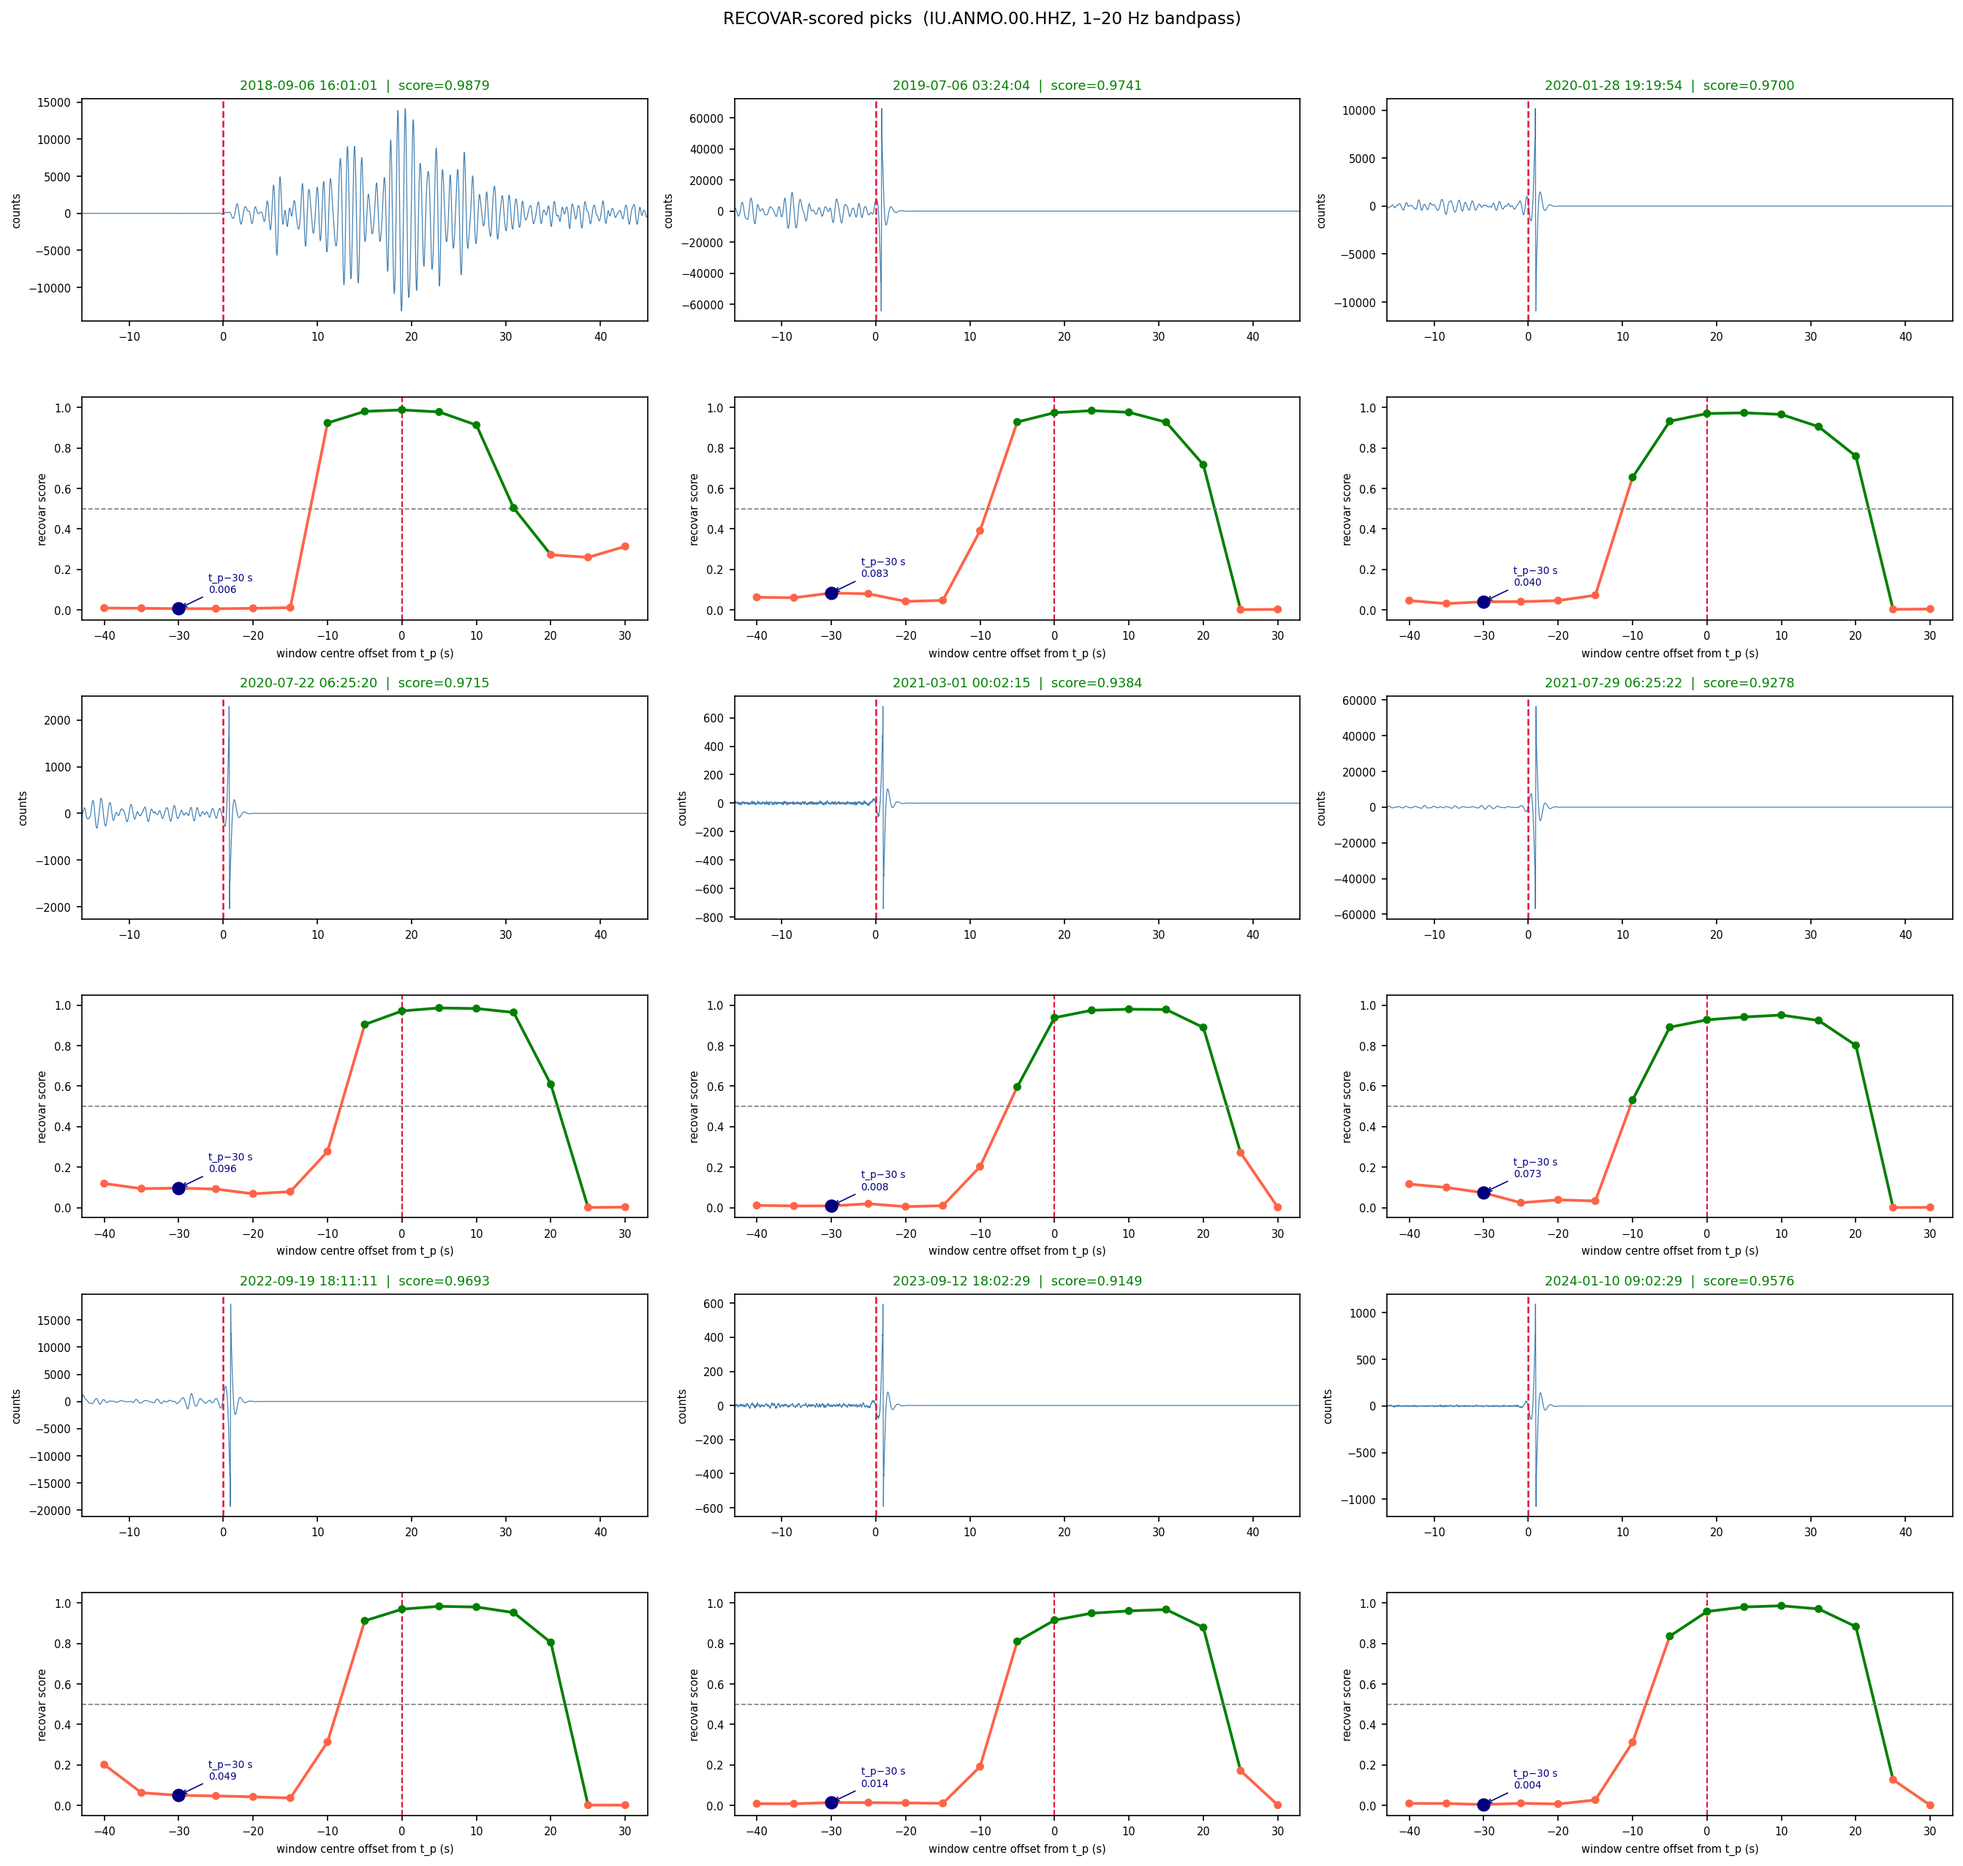
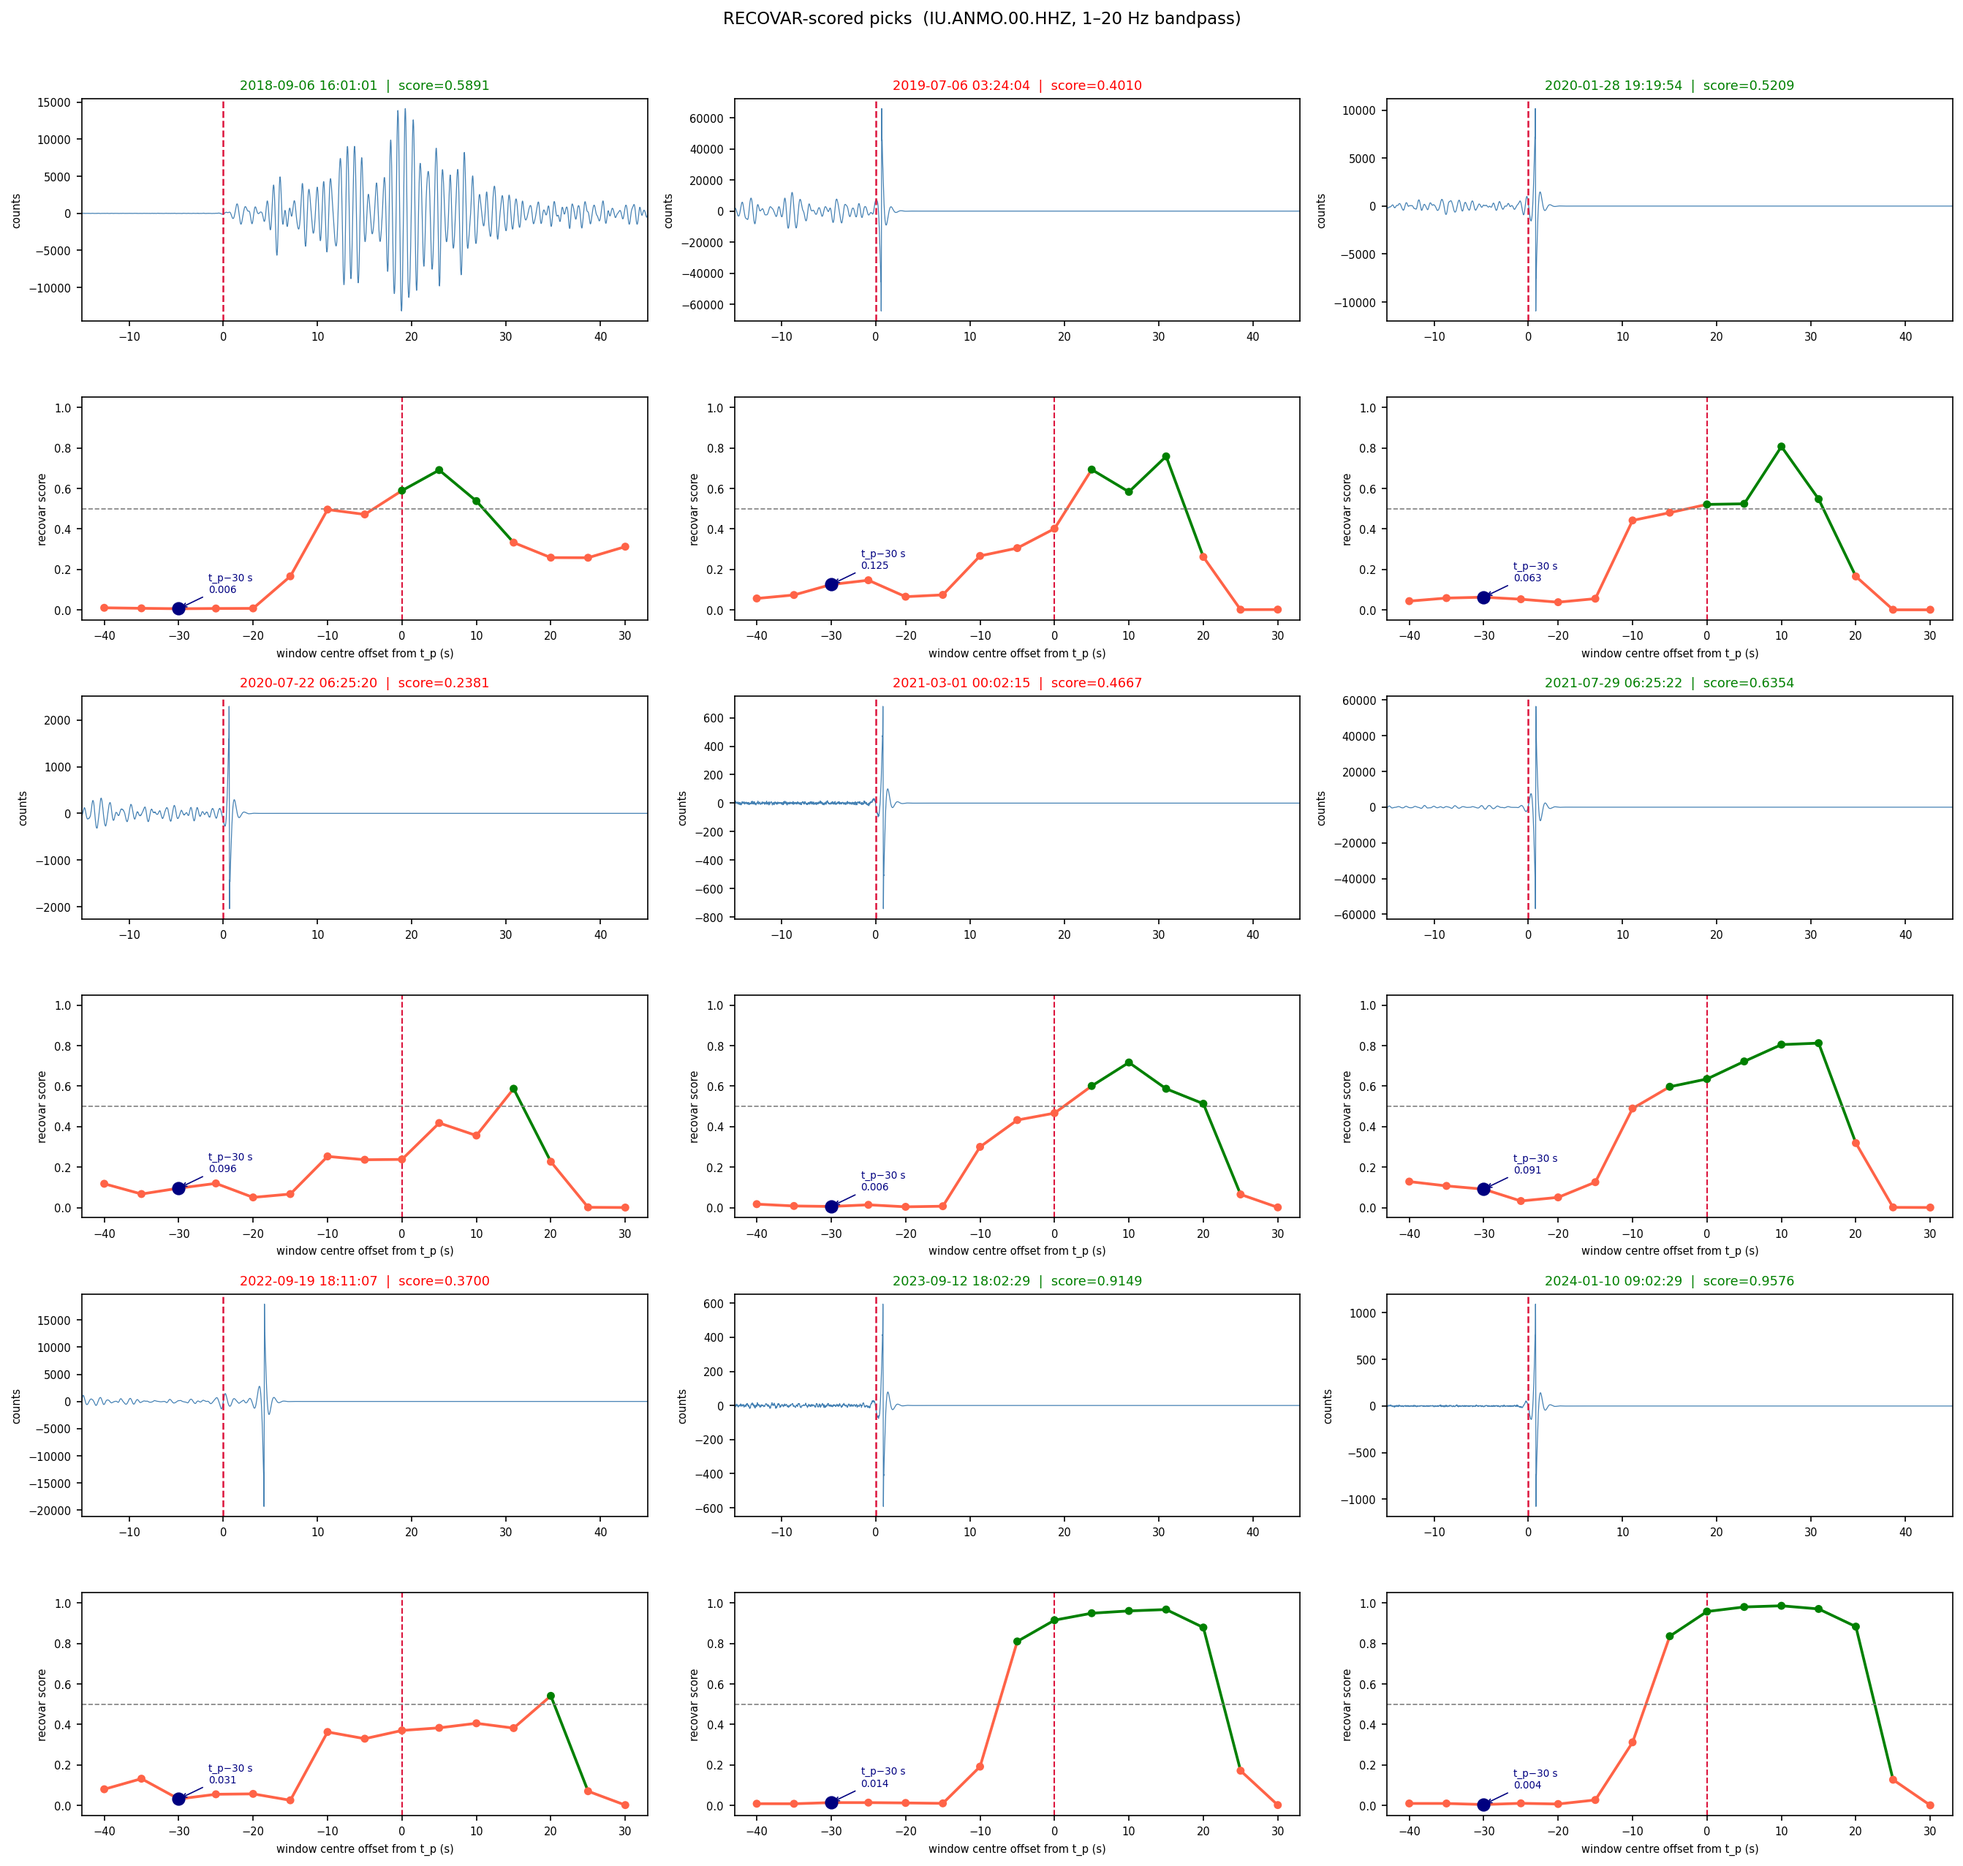
Replace Butterworth bandpass with ideal Fourier-domain mask
_bandpass now zeros all FFT bins outside [1, 20] Hz instead of applying
a Butterworth IIR response. Removes the scipy.signal dependency from the
filtering path. Note: the rectangular mask introduces Gibbs ringing which
may lower model scores compared to the smoother Butterworth response.

diff --git a/seiscomp_integration/recovar_pick_filter.py b/seiscomp_integration/recovar_pick_filter.py
@@ -42,7 +42,6 @@ SWEEP_OFFSETS_S      = list(range(-40, 31, 5))  # −40,−35,…,0,…,+30 (15 
 TARGET_FS   = 100    # Hz required by recovar
 BP_LOW_HZ   = 1.0
 BP_HIGH_HZ  = 20.0
-BP_CORNERS  = 4
 
 COMMENT_KEY       = "recovar_score"
 SWEEP_COMMENT_KEY = "recovar_score_sweep"
@@ -419,13 +418,11 @@ def _resample(arr: np.ndarray, src_fs: float, dst_fs: int) -> np.ndarray:
 
 
 def _bandpass(arr: np.ndarray, fs: float) -> np.ndarray:
-    """Zero-phase Fourier-domain Butterworth bandpass (equivalent to filtfilt)."""
-    from scipy.signal import butter, freqz
+    """Ideal bandpass via rectangular Fourier-domain mask (1–20 Hz)."""
     n     = len(arr)
     freqs = np.fft.rfftfreq(n, d=1.0 / fs)
-    b, a  = butter(BP_CORNERS, [BP_LOW_HZ, BP_HIGH_HZ], btype="band", fs=fs)
-    _, h  = freqz(b, a, worN=freqs, fs=fs)
-    return np.fft.irfft(np.fft.rfft(arr) * np.abs(h) ** 2, n=n)
+    mask  = (freqs >= BP_LOW_HZ) & (freqs <= BP_HIGH_HZ)
+    return np.fft.irfft(np.fft.rfft(arr) * mask, n=n)
 
 
 # ---------------------------------------------------------------------------
